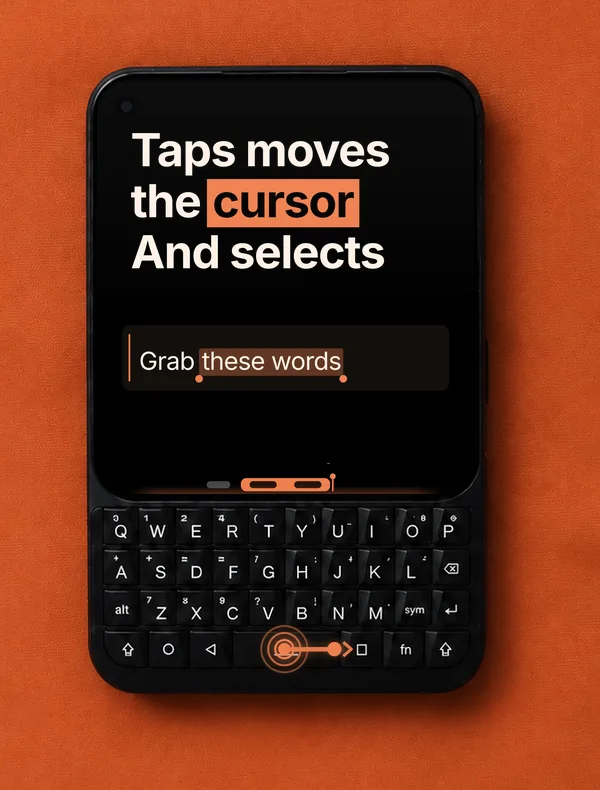
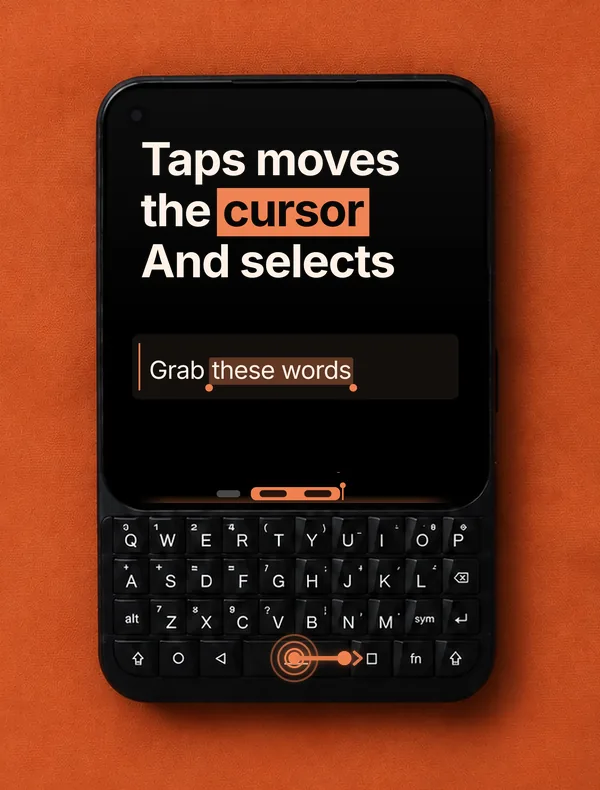
site: haptics after a tap, long enough to feel, with a chip asking for it; the switcher at its real places; the Sym panel turns its pages; T2E pictures centred on the phone; no tilt left behind by a tap

diff --git a/site/assets/bars.js b/site/assets/bars.js
@@ -16,9 +16,17 @@
     return e;
   };
   const wait = ms => new Promise(r => setTimeout(r, ms));
-  let tapped = false;
-  addEventListener("pointerdown", () => { tapped = true; }, { once: true });
-  const buzz = ms => { if (tapped && navigator.vibrate) navigator.vibrate(ms); };
+  // Chrome lets a page vibrate only after a tap on it (scrolling doesn't count), and the Titan's motor needs about 20 ms to be felt:
+  // the 5-10 ms ticks of before were too short, so each is stretched. A chip asks for the one tap until it has been given.
+  const active = () => !navigator.userActivation || navigator.userActivation.hasBeenActive;
+  const buzz = ms => { if (navigator.vibrate && active()) navigator.vibrate(Math.max(22, ms * 3)); };
+  if (navigator.vibrate && !active()) {
+    const chip = document.createElement("button");
+    chip.type = "button"; chip.className = "haptic-chip"; chip.textContent = "Tap to feel it";
+    document.body.appendChild(chip);
+    const done = () => { navigator.vibrate(30); chip.classList.add("gone"); setTimeout(() => chip.remove(), 400); removeEventListener("pointerup", done); };
+    addEventListener("pointerup", done);
+  }
 
   // Two layers crossfade: each scene draws into a fresh one and fades it in over the last.
   const layers = [0, 1].map(() => { const d = document.createElement("div"); d.className = "bar-layer"; root.appendChild(d); return d; });
@@ -156,16 +164,17 @@
 
     async languages(s, alive) {
       bg(s);
-      const items = ["EN", "中", "PT", "עב"], centres = [122, 330, 538, 746];
-      const pill = el("rect", { y: LINE - 25, height: 50, rx: 25, width: 200, x: centres[0] - 100, fill: ORANGE, "fill-opacity": .24, opacity: 0 }, s);
+      // The real switcher's places, from the owner's screenshot: EN 84-127, 中 307-337, PT 517-560, עב 733-773, Back 1011-1037.
+      const items = ["EN", "中", "PT", "עב"], centres = [106, 322, 538, 753], PW = 150;
+      const pill = el("rect", { y: LINE - 25, height: 50, rx: 25, width: PW, x: centres[0] - PW / 2, fill: ORANGE, "fill-opacity": .24, opacity: 0 }, s);
       const ts = items.map((t, i) => word(s, centres[i], t, { fill: i === 0 ? ORANGE : CREAM, size: SIZE }));
       const back = el("path", { d: "M20,11H7.8l5.6,-5.6L12,4l-8,8l8,8l1.4,-1.4L7.8,13H20Z", fill: "#FFF",
-        transform: `translate(${1006 - 20.6} ${LINE - 20.6}) scale(1.72)` }, s);
+        transform: `translate(${1024 - 20.6} ${LINE - 20.6}) scale(1.72)` }, s);
       while (alive()) {
         for (let i = 0; i < items.length; i++) {
           if (!alive()) return;
           pill.style.transition = "x .3s cubic-bezier(.2,.7,.2,1), opacity .2s";
-          pill.setAttribute("x", centres[i] - 100); pill.setAttribute("opacity", 1);
+          pill.setAttribute("x", centres[i] - PW / 2); pill.setAttribute("opacity", 1);
           ts.forEach((t, j) => t.setAttribute("fill", j === i || j === 0 ? ORANGE : CREAM));
           buzz(7);
           await wait(800);
@@ -175,13 +184,23 @@
     },
 
     async symbols(s, alive) {
-      // The real Sym panel, as the trailer caught it, rising from the bottom edge as the panel does.
+      // The real Sym panel, as the trailer caught it: it rises from the bottom edge, then turns its pages, symbols to emoji, the
+      // last with a key lit as pressed.
       s.setAttribute("viewBox", "0 0 1076 280");
-      el("image", { href: "assets/bars/symbols.png", width: 1076, height: 280 }, s);
+      const pages = ["symbols", "symbols-emoji1", "symbols-emoji2"].map((n, i) =>
+        el("image", { href: `assets/bars/${n}.png`, width: 1076, height: 280, opacity: i ? 0 : 1 }, s));
+      pages.forEach(p => { p.style.transition = "opacity .25s"; });
       s.style.transform = "translateY(100%)";
-      await wait(30); if (!alive()) return;
+      await wait(40); if (!alive()) return;
       s.style.transition = "transform .45s cubic-bezier(.2,.7,.2,1)"; s.style.transform = "none";
       buzz(12);
+      let i = 0;
+      while (alive()) {
+        await wait(1400); if (!alive()) return;
+        const next = (i + 1) % pages.length;
+        pages[next].setAttribute("opacity", 1); pages[i].setAttribute("opacity", 0);
+        i = next; buzz(8);
+      }
     },
 
     async download(s, alive) {

diff --git a/site/landing.css b/site/landing.css
@@ -127,9 +127,12 @@ footer .fine { font-size: 13px; }
   /* Buttons lift, pictures tilt toward you a little. */
   .button { transition: transform .2s, box-shadow .2s; }
   .button:hover { box-shadow: 0 10px 24px rgba(0, 0, 0, .25); }
-  .feature img { transition: transform .5s cubic-bezier(.2, .7, .2, 1); }
-  .feature img:hover { transform: perspective(900px) rotateY(-4deg) rotateX(2deg) scale(1.02); }
-  .feature:nth-child(even) img:hover { transform: perspective(900px) rotateY(4deg) rotateX(2deg) scale(1.02); }
+  /* Only with a mouse: on a touch screen a tap left the picture tilted, off its frame. */
+  @media (hover: hover) {
+    .feature img { transition: transform .5s cubic-bezier(.2, .7, .2, 1); }
+    .feature img:hover { transform: perspective(900px) rotateY(-4deg) rotateX(2deg) scale(1.02); }
+    .feature:nth-child(even) img:hover { transform: perspective(900px) rotateY(4deg) rotateX(2deg) scale(1.02); }
+  }
 
   /* Each feature rises in once as it comes into view (the script adds .in), its box sweeping in after. */
   .reveal img, .reveal h2, .reveal p, .reveal .actions { opacity: 0; transform: translateY(28px); transition: opacity .7s, transform .7s cubic-bezier(.2, .7, .2, 1); }
@@ -223,3 +226,9 @@ footer .fine { font-size: 13px; }
    ("right" under "keys", owner 2026-11-21). */
 .box { display: inline-block; line-height: 1.04; padding: 0 .14em; }
 h1, h2 { line-height: 1.1; }
+
+/* The chip asking for the tap that lets the page vibrate, just above the bar. */
+.haptic-chip { position: fixed; left: 50%; bottom: calc(100vw * 88 / 1076 + 2.5vw); transform: translateX(-50%); z-index: 21;
+  border: 0; border-radius: 999px; background: rgba(0, 0, 0, .8); color: var(--cream); font: 700 2.4vw/1 Inter, system-ui, sans-serif;
+  padding: 1.6vw 3vw; box-shadow: 0 0 0 1.5px var(--orange); transition: opacity .35s, transform .35s; }
+.haptic-chip.gone { opacity: 0; transform: translate(-50%, 8px); }

diff --git a/site/index.html b/site/index.html
@@ -10,7 +10,7 @@
 <meta property="og:description" content="Swipe whole words on the same keys you press. Typos fixed as you go. 49 languages.">
 <meta property="og:image" content="https://jasonlok000.github.io/titankeys/assets/06-made-for.webp">
 <link rel="icon" href="assets/icon-192.png">
-<link rel="stylesheet" href="landing.css?v=8">
+<link rel="stylesheet" href="landing.css?v=9">
 </head>
 <body>
 <!-- The launch page (#58). Same look as the app, the store graphics and the trailer: Inter, cream on near-black, the Titan
@@ -127,9 +127,9 @@
       ((near(px(screen.width), 1076) || near(px(screen.width), 1080)) && near(px(screen.height), 1200));
     if (!t2e) return;
     document.documentElement.classList.add("t2e");
-    for (const img of document.querySelectorAll("img[data-nobar]")) img.src = img.dataset.nobar;
+    for (const img of document.querySelectorAll("img[data-nobar]")) { img.width = 600; img.height = 790; img.src = img.dataset.nobar; }
     const live = document.createElement("script");
-    live.src = "assets/bars.js?v=3";
+    live.src = "assets/bars.js?v=4";
     document.body.appendChild(live);
   })();
 
